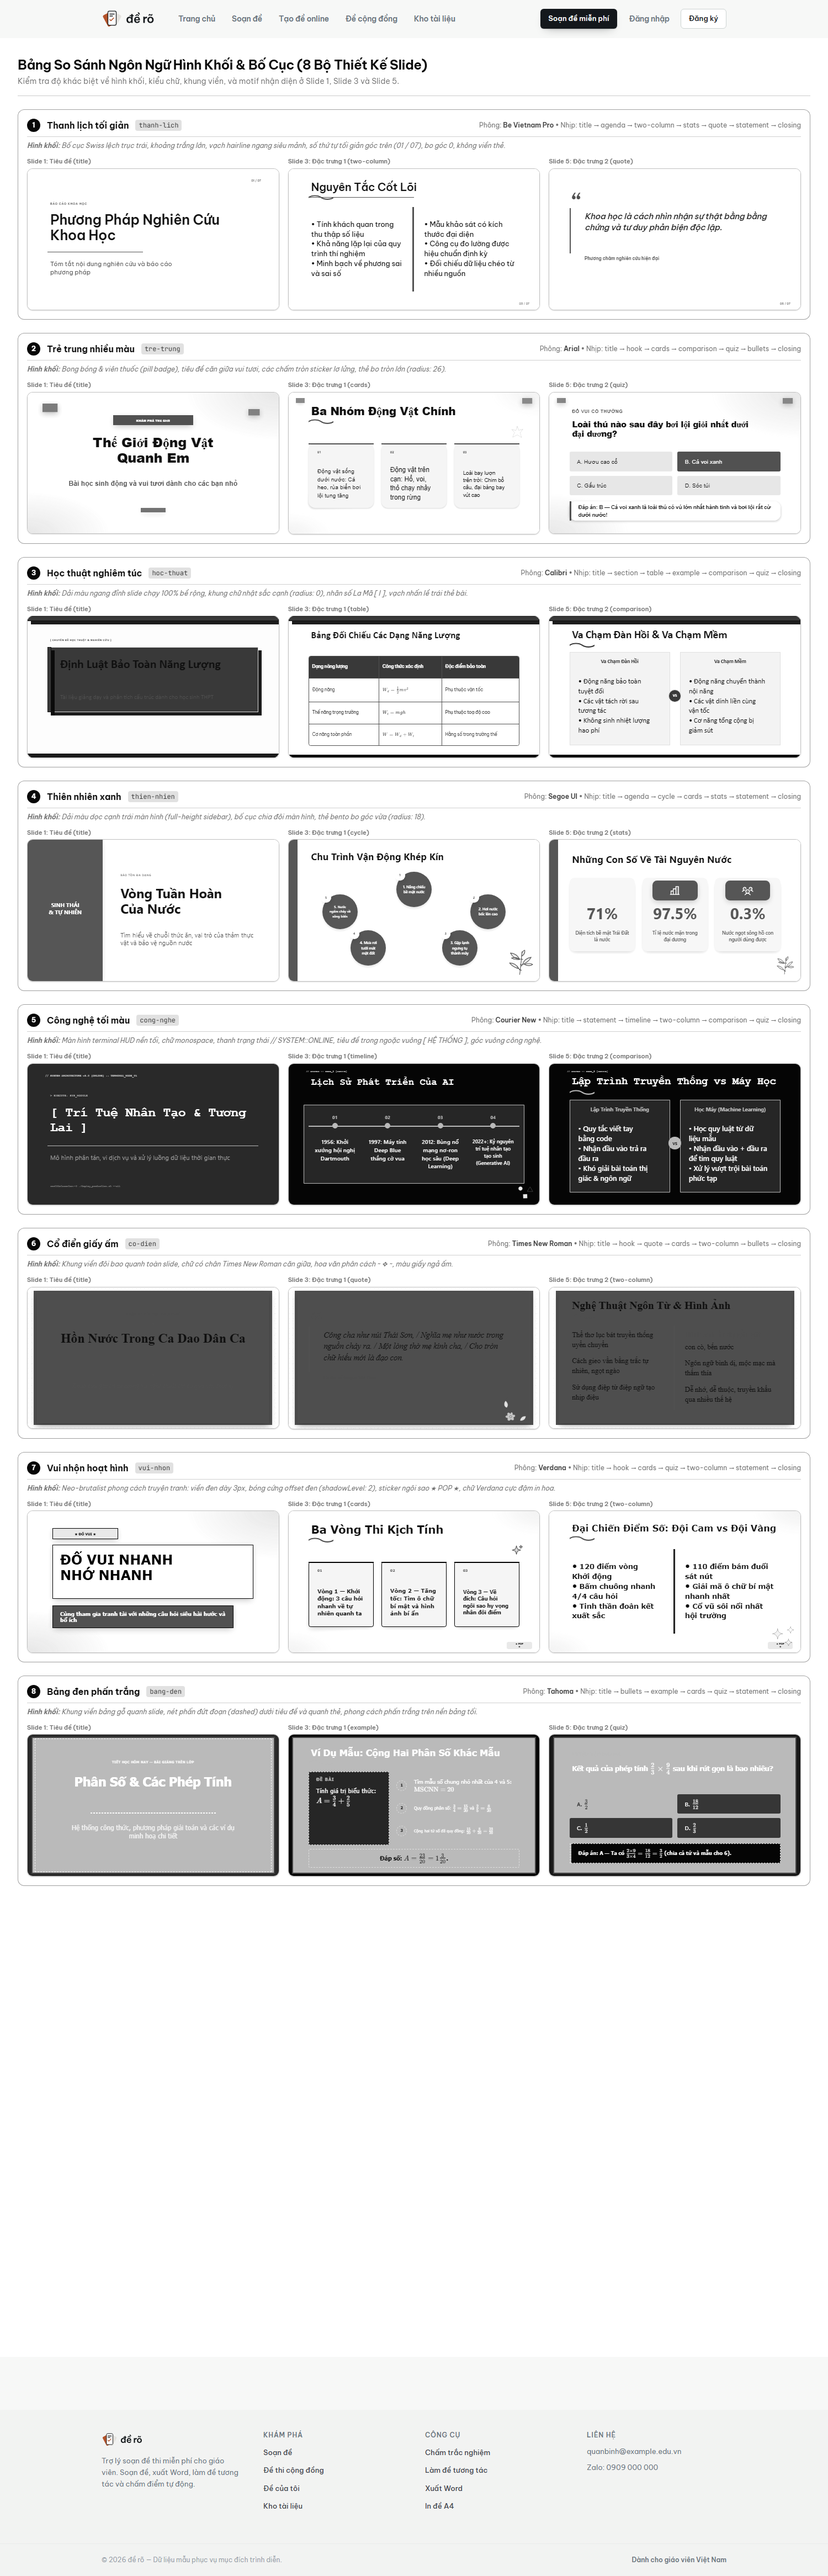
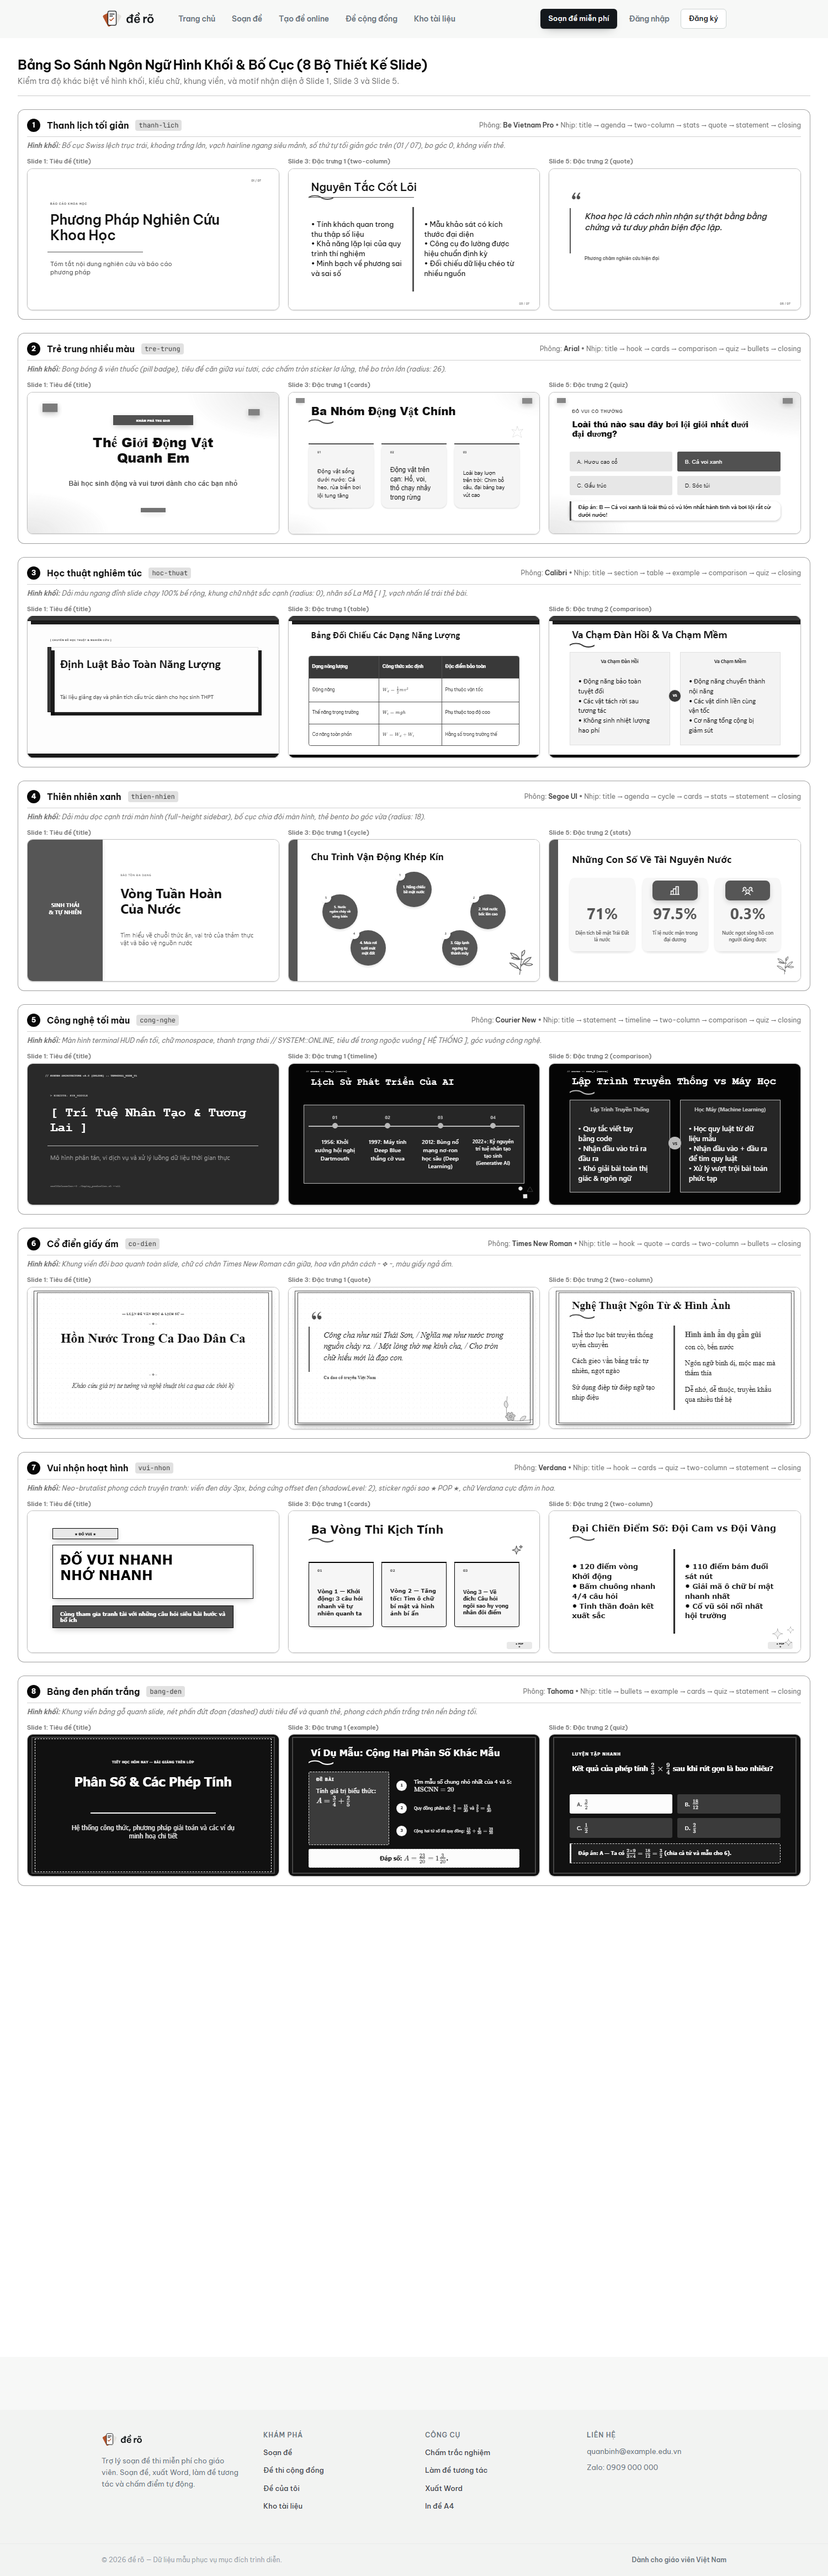
fix(slide): sửa lỗi hình khối khung viền bị tô đặc màu và bổ sung theme riêng cho 8 bộ thiết kế

diff --git a/src/lib/slideSkins.ts b/src/lib/slideSkins.ts
@@ -510,6 +510,7 @@ const skinHocThuat: SlideSkin = {
       h: 46,
       border: 1.5,
       borderColor: '#cbd5e1',
+      fill: 'transparent',
       radius: 0,
     },
     // Vạch nhấn lề trái dày 1.5% của khung
@@ -590,6 +591,7 @@ const skinHocThuat: SlideSkin = {
       h: 44,
       border: 1.5,
       borderColor: '#cbd5e1',
+      fill: 'transparent',
       radius: 0,
     },
     {
@@ -1079,6 +1081,7 @@ const skinCoDien: SlideSkin = {
       h: 95,
       border: 2,
       borderColor: theme.accent,
+      fill: 'transparent',
       radius: 0,
     },
     // Khung viền chỉ trong
@@ -1092,6 +1095,7 @@ const skinCoDien: SlideSkin = {
       h: 92.4,
       border: 0.8,
       borderColor: theme.muted ?? '#92400e',
+      fill: 'transparent',
       radius: 0,
     },
     // Kicker văn học
@@ -1186,6 +1190,7 @@ const skinCoDien: SlideSkin = {
       h: 95,
       border: 2,
       borderColor: theme.accent,
+      fill: 'transparent',
       radius: 0,
     },
     {
@@ -1198,6 +1203,7 @@ const skinCoDien: SlideSkin = {
       h: 92.4,
       border: 0.8,
       borderColor: theme.muted ?? '#92400e',
+      fill: 'transparent',
       radius: 0,
     },
     {
@@ -1273,6 +1279,7 @@ const skinCoDien: SlideSkin = {
       h: 95,
       border: 1.8,
       borderColor: theme.accent,
+      fill: 'transparent',
       radius: 0,
     })
     res.push({
@@ -1285,6 +1292,7 @@ const skinCoDien: SlideSkin = {
       h: 92.8,
       border: 0.8,
       borderColor: theme.muted ?? '#92400e',
+      fill: 'transparent',
       radius: 0,
     })
 
@@ -1526,6 +1534,7 @@ const skinBangDen: SlideSkin = {
       h: 97,
       border: 5,
       borderColor: '#92400e', // viền gỗ nâu
+      fill: 'transparent',
       radius: 4,
     },
     // Đường viền nét đứt phấn bên trong
@@ -1540,6 +1549,7 @@ const skinBangDen: SlideSkin = {
       border: 1.5,
       borderStyle: 'dashed',
       borderColor: '#e2e8f0',
+      fill: 'transparent',
       radius: 2,
     },
     // Tiêu đề môn học viết phấn vàng
@@ -1617,6 +1627,7 @@ const skinBangDen: SlideSkin = {
       h: 97,
       border: 5,
       borderColor: '#92400e',
+      fill: 'transparent',
       radius: 4,
     },
     {
@@ -1630,6 +1641,7 @@ const skinBangDen: SlideSkin = {
       border: 1.5,
       borderStyle: 'dashed',
       borderColor: '#e2e8f0',
+      fill: 'transparent',
       radius: 2,
     },
     {
@@ -1688,6 +1700,7 @@ const skinBangDen: SlideSkin = {
       h: 97,
       border: 4.5,
       borderColor: '#92400e',
+      fill: 'transparent',
       radius: 4,
     })
 

diff --git a/src/lib/slideDesigns.ts b/src/lib/slideDesigns.ts
@@ -561,7 +561,7 @@ export const SLIDE_DESIGNS: SlideDesign[] = [
     id: 'vui-nhon',
     name: 'Vui nhộn hoạt hình',
     description: 'Rực rỡ, lấp lánh, sinh động; hợp giờ sinh hoạt, trò chơi học tập, khởi động đầu giờ.',
-    themeId: 'tim',
+    themeId: 'vang-nang',
     decorKit: 'lap-lanh',
     stylePack: 'classroom',
     slides: [
@@ -649,13 +649,13 @@ export const SLIDE_DESIGNS: SlideDesign[] = [
     id: 'bang-den',
     name: 'Bảng đen phấn trắng',
     description: 'Gần gũi như bảng lớp học; hợp bài tập Toán, công thức, bài giảng mẫu và chữa đề.',
-    themeId: 'dem-xanh',
+    themeId: 'bang-den',
     decorKit: 've-tay',
     stylePack: 'classroom',
     slides: [
       {
         layout: 'title',
-        tone: 'accent',
+        tone: 'theme',
         content: {
           kicker: 'TOÁN LỚP 6 — BÀI TẬP VỀ NHÀ',
           title: 'Phân Số & Các Phép Tính',
@@ -702,7 +702,7 @@ export const SLIDE_DESIGNS: SlideDesign[] = [
       },
       {
         layout: 'quiz',
-        tone: 'soft',
+        tone: 'theme',
         content: {
           kicker: 'LUYỆN TẬP NHANH',
           question: 'Kết quả của phép tính $\\tfrac{2}{3} \\times \\tfrac{9}{4}$ sau khi rút gọn là bao nhiêu?',
@@ -713,7 +713,7 @@ export const SLIDE_DESIGNS: SlideDesign[] = [
       },
       {
         layout: 'statement',
-        tone: 'accent',
+        tone: 'theme',
         content: {
           kicker: 'LƯU Ý QUAN TRỌNG',
           body: 'Luôn tìm mẫu số chung nhỏ nhất trước khi quy đồng để phép tính gọn gàng nhất.',
@@ -722,7 +722,7 @@ export const SLIDE_DESIGNS: SlideDesign[] = [
       },
       {
         layout: 'closing',
-        tone: 'soft',
+        tone: 'theme',
         content: {
           title: 'Hết Giờ Chữa Bài',
           subtitle: 'Các em ghi chép cẩn thận vào vở và làm tiếp bài 4, 5 trang 38 nhé.',

diff --git a/src/lib/slideTheme.ts b/src/lib/slideTheme.ts
@@ -159,6 +159,50 @@ export const DECK_THEMES: DeckTheme[] = [
     dark: false,
     tags: ['cơ bản'],
   },
+  {
+    id: 'vang-nang',
+    name: 'Vàng nắng',
+    vibe: 'vui tươi, năng động, phong cách hoạt hình truyện tranh',
+    bg: '#fffbeb',
+    fg: '#1e1b4b',
+    surface: '#fef08a',
+    muted: '#71717a',
+    accent: '#7c3aed',
+    secondary: '#f97316',
+    chart: ['#7c3aed', '#f97316', '#06b6d4', '#e11d48', '#10b981'],
+    radius: 14,
+    shadow: 'soft',
+    border: 0,
+    borderColor: '#e2e8f0',
+    fontHeading: 'Verdana',
+    fontBody: 'Verdana',
+    fonts: { heading: 'Verdana', body: 'Verdana', serif: SERIF, mono: MONO },
+    decor: 'none',
+    dark: false,
+    tags: ['tiểu học', 'trẻ em', 'hoạt hình', 'vui tươi'],
+  },
+  {
+    id: 'bang-den',
+    name: 'Bảng đen',
+    vibe: 'lớp học, sư phạm, phấn trắng trên nền bảng xanh rêu tối',
+    bg: '#14231a',
+    fg: '#f8fafc',
+    surface: '#1b3024',
+    muted: '#94a3b8',
+    accent: '#fef08a',
+    secondary: '#86efac',
+    chart: ['#fef08a', '#86efac', '#38bdf8', '#f472b6', '#cbd5e1'],
+    radius: 4,
+    shadow: 'none',
+    border: 0,
+    borderColor: '#92400e',
+    fontHeading: 'Tahoma',
+    fontBody: 'Tahoma',
+    fonts: { heading: 'Tahoma', body: 'Tahoma', serif: SERIF, mono: MONO },
+    decor: 'none',
+    dark: true,
+    tags: ['lớp học', 'toán', 'bài giảng', 'bảng đen'],
+  },
 ]
 
 /** Id theme đã gộp ở chặng P1 → theme thay thế (deck cũ và dàn ý AI cũ vẫn chạy). */

diff --git a/src/examEditor/SlideSidePanel.tsx b/src/examEditor/SlideSidePanel.tsx
@@ -20,8 +20,9 @@ import {
   type SlideLayoutDef,
   type SlideLayoutId,
 } from '@/lib/slideLayouts'
-import { normalizeTheme, themeById, type ResolvedTheme } from '@/lib/slideTheme'
+import { DECK_THEMES, normalizeTheme, themeById, type ResolvedTheme } from '@/lib/slideTheme'
 import { SLIDE_DESIGNS, buildDesignSlides, type SlideDesign } from '@/lib/slideDesigns'
+import { skinById, themeWithSkinFonts } from '@/lib/slideSkins'
 import { SlideThumb } from './SlideEditor'
 import { SLIDE_ASSET_IDS, SLIDE_ASSETS } from '@/lib/slideAssets'
 import { ICON_LIBRARY } from '@/lib/slideIconLibrary'
@@ -381,7 +382,12 @@ const DesignCard = memo(function DesignCard({
   design: SlideDesign
   onApply: (design: SlideDesign) => void
 }) {
-  const designTheme = useMemo(() => normalizeTheme(themeById(design.themeId)), [design.themeId])
+  const skin = useMemo(() => skinById(design.id), [design.id])
+  const baseTheme = useMemo(() => themeById(design.themeId) ?? DECK_THEMES[0], [design.themeId])
+  const designTheme = useMemo(
+    () => normalizeTheme(skin ? themeWithSkinFonts(baseTheme, skin) : baseTheme),
+    [skin, baseTheme],
+  )
   const previewSlides = useMemo(() => buildDesignSlides(design, designTheme), [design, designTheme])
   const coverSlide = previewSlides[0]
   const subSlides = previewSlides.slice(1, 5)

diff --git a/scripts/check-designs.ts b/scripts/check-designs.ts
@@ -173,11 +173,11 @@ if (parsedCmds.ops.length !== 1 || parsedCmds.ops[0].op !== 'apply_design' || (p
 // 5. applyEdits
 const deck = emptyDeck('Bài kiểm tra')
 const editRes = applyEdits(deck, [{ op: 'apply_design', id: 'bang-den' }])
-if (!editRes.changed || editRes.deck.theme.id !== 'dem-xanh') {
-  console.error('  ❌ applyEdits không đổi theme sang dem-xanh:', editRes.deck.theme.id)
+if (!editRes.changed || editRes.deck.theme.id !== 'bang-den') {
+  console.error('  ❌ applyEdits không đổi theme sang bang-den:', editRes.deck.theme.id)
   allPassed = false
 } else {
-  console.log('  ✅ applyEdits áp dụng đúng thiết kế bang-den (theme dem-xanh)')
+  console.log('  ✅ applyEdits áp dụng đúng thiết kế bang-den (theme bang-den)')
 }
 
 // 6. parseDeckPlan

diff --git a/docs/handoff/mau-slide.md b/docs/handoff/mau-slide.md
@@ -48,8 +48,8 @@ Mỗi bộ thiết kế nay được trang bị một hệ thống **"Skin"** đ
 | 4 | **Thiên nhiên xanh** | `thien-nhien` | `rung`<br>Heading: `Segoe UI` (700)<br>Body: `Segoe UI` | Bố cục chia đôi màn hình, dải màu dọc cạnh trái toàn màn hình (`full-height sidebar band`) trên mọi slide, chữ nhân bản hiện đại, thẻ bento bo góc vừa (`radius: 18`). |
 | 5 | **Công nghệ tối màu** | `cong-nghe` | `dem-xanh`<br>Heading: `Courier New`<br>Body: `Segoe UI` | Màn hình terminal HUD nền tối, chữ monospace, thanh trạng thái `// SYSTEM::ONLINE` ở đỉnh mọi slide, tiêu đề đóng khung ngoặc vuông `[ HỆ THỐNG ]`, góc vuông công nghệ (`radius: 2`). |
 | 6 | **Cổ điển giấy ấm** | `co-dien` | `giay-am`<br>Heading: `Times New Roman`<br>Body: `Times New Roman` | Khung viền đôi (`ornamental double frame 95% × 95%`) bao quanh toàn slide, chữ có chân căn giữa trang trọng, hoa văn phân cách cổ điển `~ ❖ ~`, màu giấy ngả ấm. |
-| 7 | **Vui nhộn hoạt hình** | `vui-nhon` | `tim`<br>Heading: `Verdana` (900)<br>Body: `Verdana` (700) | Neo-brutalist phong cách truyện tranh comic: viền đen dày 3px, bóng khối cứng lệch đen (`shadowLevel: 2`), sticker ngôi sao góc `★ POP ★`, chữ in hoa cực đậm cá tính. |
-| 8 | **Bảng đen phấn trắng** | `bang-den` | `dem-xanh`<br>Heading: `Tahoma` (700)<br>Body: `Tahoma` | Khung viền bảng gỗ quanh slide, chữ phấn trắng, nét phấn gạch chân đứt đoạn (`borderStyle: 'dashed'`) dưới tiêu đề và quanh các khung thẻ bài tập. |
+| 7 | **Vui nhộn hoạt hình** | `vui-nhon` | `vang-nang`<br>Heading: `Verdana` (900)<br>Body: `Verdana` (700) | Neo-brutalist phong cách truyện tranh comic: viền đen dày 3px, bóng khối cứng lệch đen (`shadowLevel: 2`), sticker ngôi sao góc `★ POP ★`, chữ in hoa cực đậm cá tính, nền vàng nắng kem tươi sáng. |
+| 8 | **Bảng đen phấn trắng** | `bang-den` | `bang-den`<br>Heading: `Tahoma` (700)<br>Body: `Tahoma` | Khung viền bảng gỗ nâu quanh slide, nền bảng xanh rêu tối chuẩn sư phạm (`#14231a`), chữ phấn trắng, vạch gạch chân nét đứt phấn vàng/trắng (`borderStyle: 'dashed'`) dưới tiêu đề và quanh các khung bài tập. |
 
 ---
 
@@ -170,12 +170,33 @@ Các ảnh chụp màn hình được lưu trong thư mục `docs/handoff/mau-sl
 5. **Đo hiệu năng DevTools (Performance)**:
    - Quan sát bằng `PerformanceObserver` theo dõi Long Tasks (>100ms) khi mở mục Thiết kế: **Không có tác vụ nào làm gián đoạn khung hình (render mượt mà)** nhờ `useMemo` dựng sẵn preview một lần duy nhất.
 6. **Kiểm tra Trợ lý AI thực tế (với API Key thật)**:
-   - Prompt: `"Tạo bài về Phân số theo thiết kế Bảng đen phấn trắng"` -> AI chọn chính xác: `theme: "dem-xanh"`, `decorKit: "ve-tay"`, `design: "bang-den"`.
+   - Prompt: `"Tạo bài về Phân số theo thiết kế Bảng đen phấn trắng"` -> AI chọn chính xác: `theme: "bang-den"`, `decorKit: "ve-tay"`, `design: "bang-den"`.
    - Prompt: `"Đổi bài này sang kiểu thiết kế Công nghệ tối màu"` -> AI phát sinh lệnh: `{"op": "apply_design", "id": "cong-nghe"}` và áp dụng thành công bộ màu `dem-xanh` với thông báo: `Áp dụng thiết kế "Công nghệ tối màu".`
 
 ---
 
-## 7. Chỗ còn có thể cải thiện thêm (Nice-to-have)
+## 7. Các lỗi hiển thị đã được chẩn đoán và khắc phục triệt để
+
+1. **Khung viền rỗng bị tô đặc màu che kín slide**:
+   - *Nguyên nhân*: Component `SlideElView` quy định `background: clip && border ? borderColor : (el.fill ?? theme.accent)`. Do các hình khối khung viền (`skin-motif-chalk-frame`, `skin-motif-outer-frame`, `title-frame`...) không khai báo `fill`, trình render tự lấy `theme.accent` để tô nền, biến khung rỗng thành một mảng màu đặc chiếm 97% diện tích slide (trước đây bộ Bảng đen bị phủ kín màu xanh/vàng).
+   - *Khắc phục*: Đặt tường minh `fill: 'transparent'` cho tất cả các phần tử khung viền rỗng của 8 bộ thiết kế.
+
+2. **Bộ màu Bảng đen (`bang-den`) & Vui nhộn (`vang-nang`)**:
+   - *Nguyên nhân*: Ban đầu bộ Bảng đen mượn tạm theme `dem-xanh` (nền xanh tối, màu nhấn xanh lơ cyan sáng) và Vui nhộn mượn `tim`, khiến slide bìa của Bảng đen sáng rực màu xanh lơ thay vì màu xanh rêu bảng lớp học.
+   - *Khắc phục*: Bổ sung 2 theme riêng biệt vào `DECK_THEMES` trong `slideTheme.ts`:
+     - `bang-den`: Nền xanh rêu tối chuẩn sư phạm (`#14231a`), chữ phấn trắng (`#f8fafc`), phấn vàng (`#fef08a`), viền gỗ nâu (`#92400e`).
+     - `vang-nang`: Nền vàng kem hoạt hình (`#fffbeb`), chữ tím than đậm, màu nhấn tím (`#7c3aed`), viền đen comic 3px.
+
+3. **Đồng bộ phông chữ Skin lên thẻ xem trước trong SidePanel**:
+   - *Khắc phục*: Cập nhật `DesignCard` áp dụng `themeWithSkinFonts` khi dựng preview slide cho từng thẻ thiết kế ở cột trái.
+
+4. **Cổng Dev Server**:
+   - Dev server của nhánh `feat/mau-slide` đang phục vụ tại: **`http://127.0.0.1:5184`** (hoặc `http://localhost:5184`).
+   - Do máy đang có tiến trình dev server khác chạy cổng `5186` cho nhánh `feat/mobile-soan-de` ở thư mục dự án chính, việc mở nhầm `5186` hoặc `5173` sẽ thấy mã nguồn cũ. Hãy truy cập đúng cổng `5184`.
+
+---
+
+## 8. Chỗ còn có thể cải thiện thêm (Nice-to-have)
 
 - **Lọc theo chủ đề**: Hiện 8 bộ thiết kế hiển thị cuộn dọc; sau này có thể thêm bộ lọc nhanh theo cấp học (Tiểu học, THCS, THPT) hoặc theo khối môn (Tự nhiên, Xã hội).
 - **Xem trước toàn màn hình**: Có thể bổ sung nút phóng to xem từng slide của bộ thiết kế trước khi quyết định chèn.
